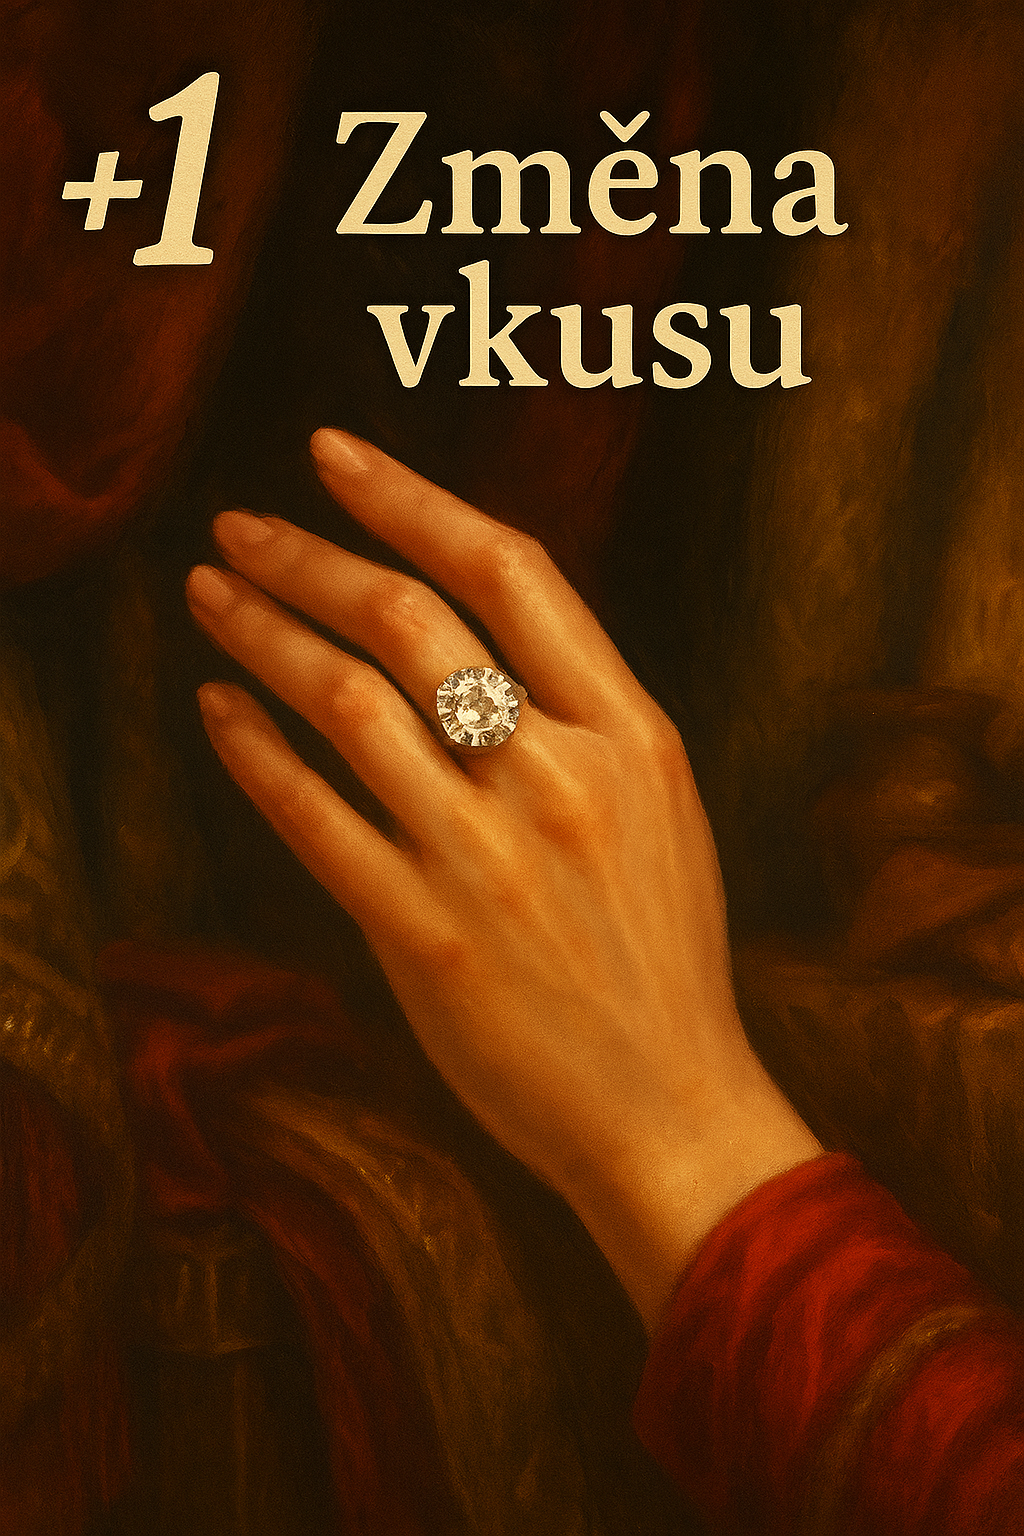
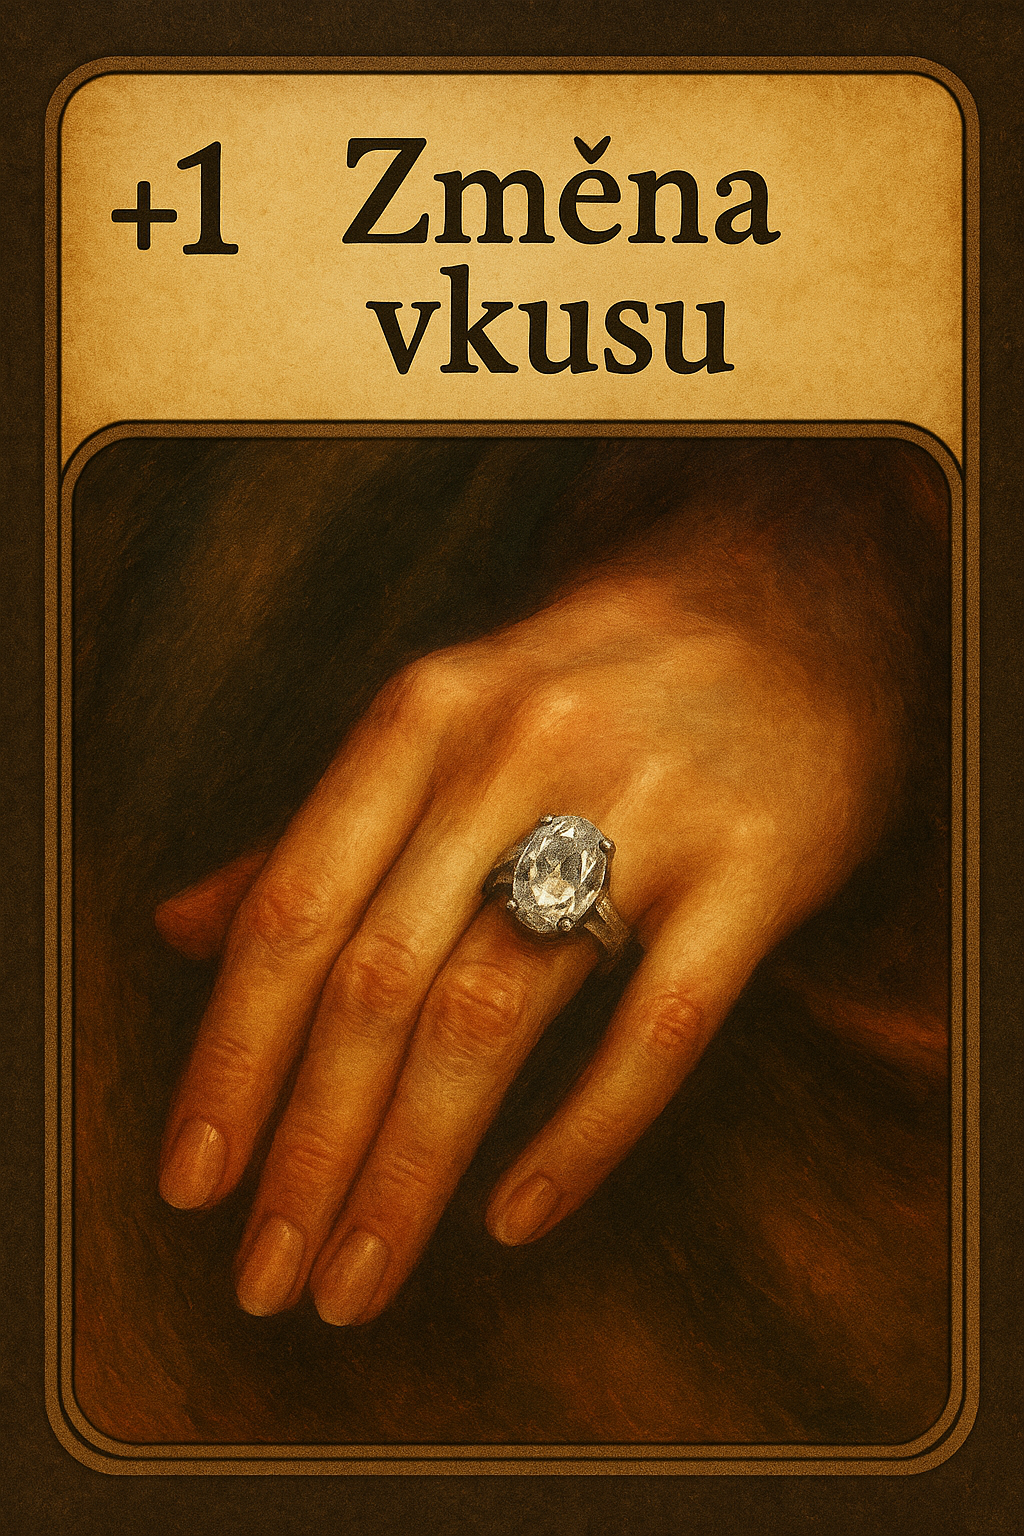
vygenerování rubové karty

diff --git a/README.md b/README.md
@@ -13,7 +13,11 @@ Vybrané kameny jsou na kartách levnější, nebo dražší podle údálostí v
 
 Dva balíčky karet:
 - Sezóny - určují barvu. 
-- Ceny - ty mohou klesat nebo růst.
+- Události - změna ceny, ty mohou klesat nebo růst.
+
+| Sezóny | Události |
+|--------|----------|
+| ![](assets/ChatGPT-Sezóny_rub.png) | ![](assets/ChatGPT-Události.png) |
 
 Hráč může a nebo nemusí hodit kostkou na začátku svého tahu. Pokud padne 6, mění se sezóna. Hráč otočí vrchní kartu z obou balíčků.
 
@@ -80,7 +84,7 @@ Použito jako popis pro generování obrázků v ChatGPT.
 
 ### Tabulka karet Sezón (žetonů)
 
-10 karet sezón, každý 2 kusy.
+10 karet sezón celkem, 5 druhů - každý 2 kusy.
 
 | Diamant | Onyx | Rubín | Smaragd | Safír |
 |---|---|---|---|---|
